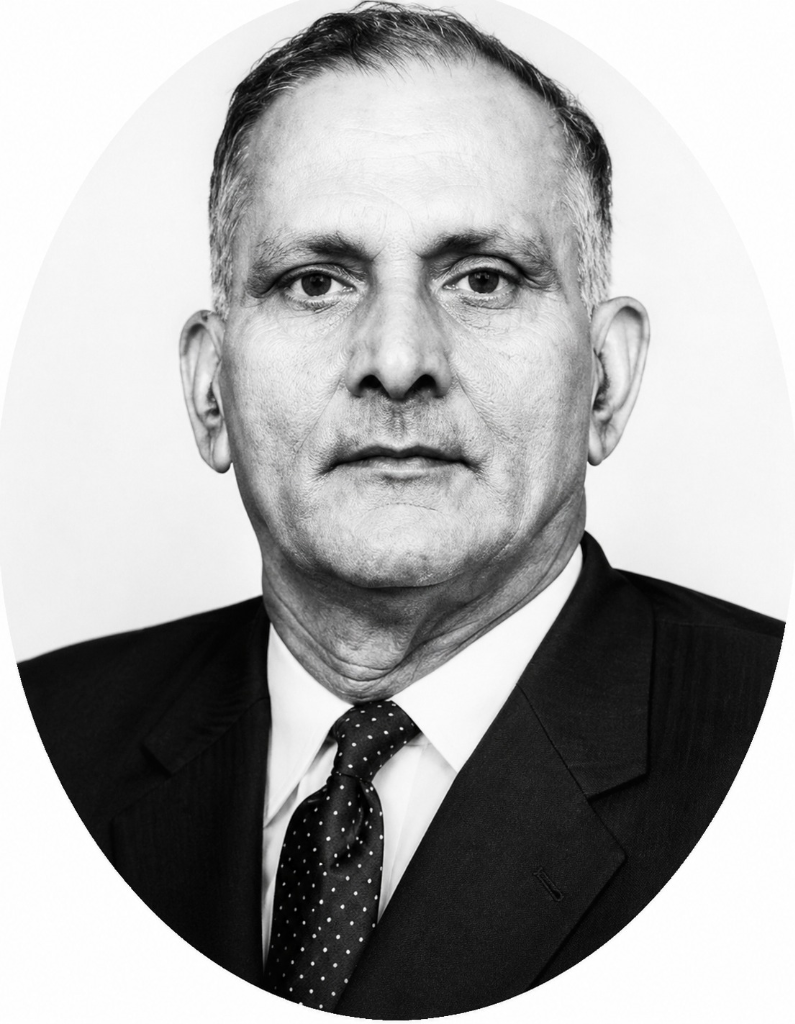
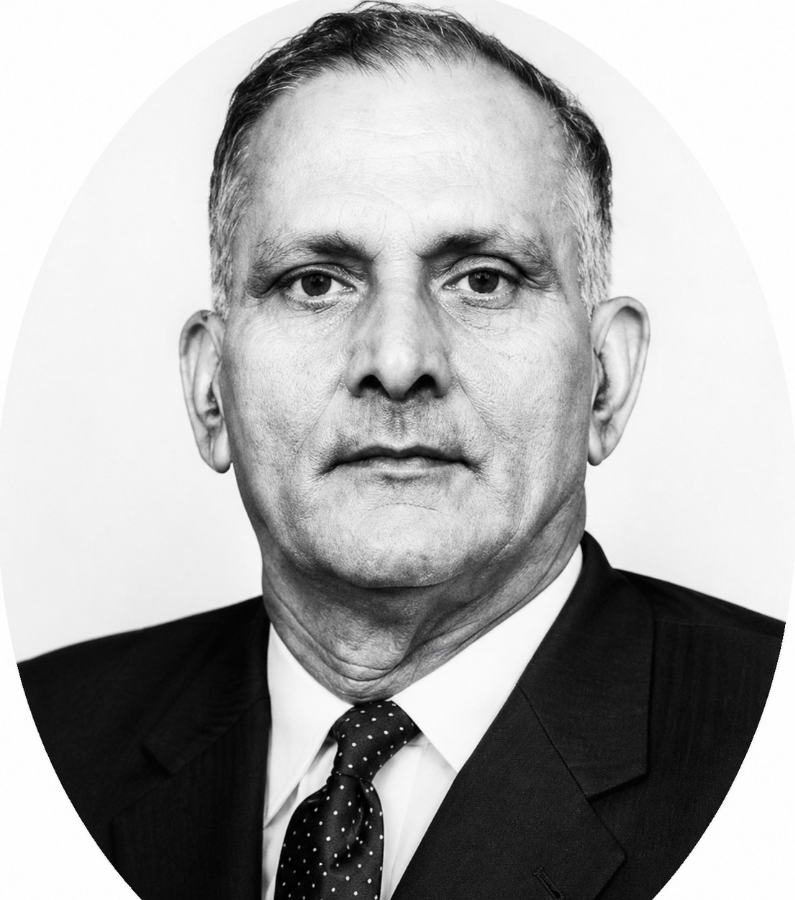
Cropped KCP text from founder image and set object-fit to contain on mobile

diff --git a/index.html b/index.html
@@ -3629,7 +3629,7 @@
       .splash-photo {
         width: 100vw;
         height: 100vh;
-        object-fit: cover;
+        object-fit: contain;
       }
     }
 
